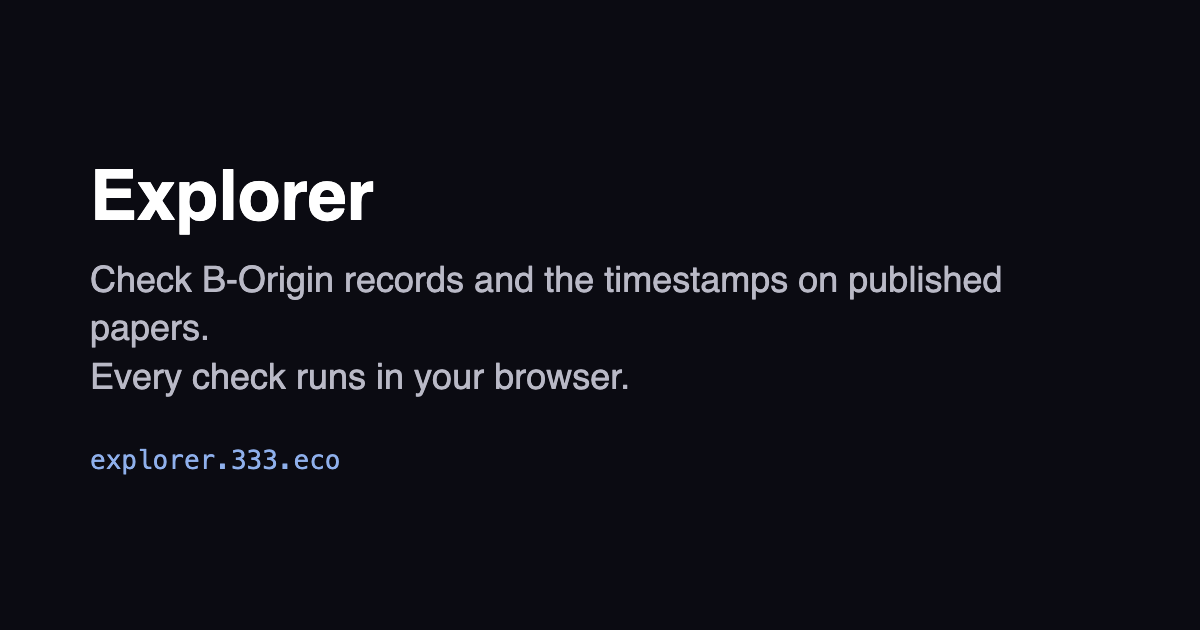
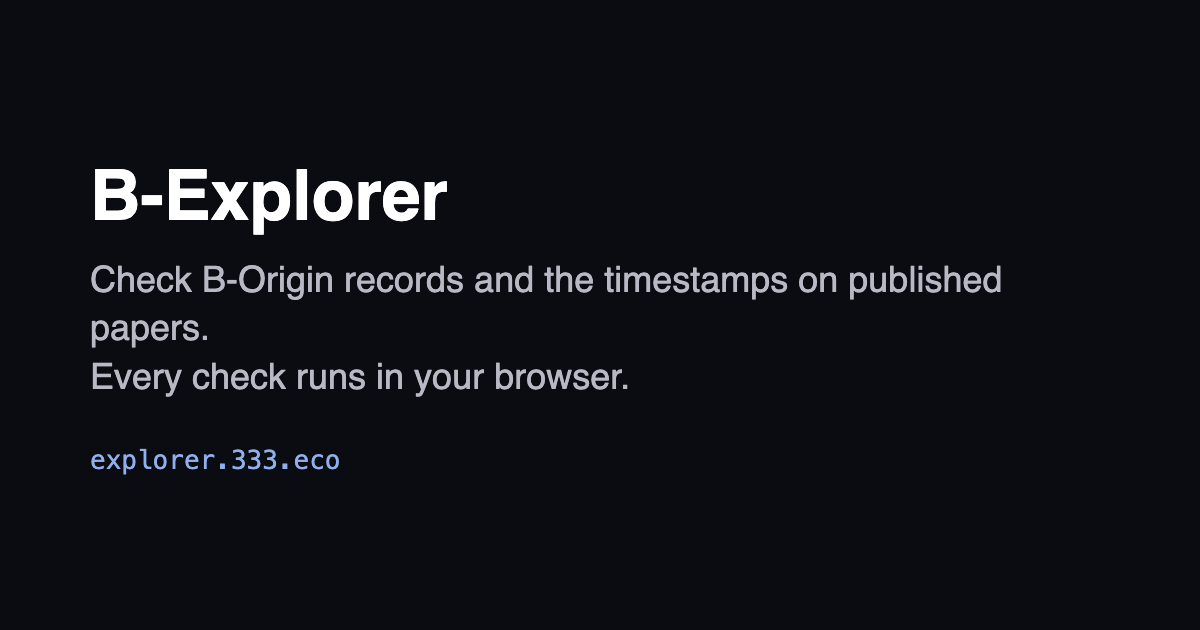
B-Explorer: names as ruled, each document its own card, the block prominent and linked, Read it fixed; Cloudflare Pages

Changed region(s): [[0.0925, 0.2714, 0.37, 0.3619]]

diff --git a/client/app.ts b/client/app.ts
@@ -42,6 +42,7 @@ const text = (b: Uint8Array) => new TextDecoder().decode(b);
 const head = (title: string, lede?: string) => h("div", {}, h("h1", {}, title), lede ? h("p", { class: "lede" }, lede) : null);
 const card = (...kids: Kid[]) => h("div", { class: "card" }, ...kids);
 const leg = (ok: boolean | null, title: string, ...body: Kid[]) => h("div", { class: "ex-leg" }, h("b", { class: ok === true ? "ex-ok" : ok === false ? "ex-bad" : "" }, title), h("p", {}, ...body));
+const blockLink = (height: number) => h("a", { class: "ex-block", href: `https://mempool.space/block/${height}`, rel: "noopener" }, say(`Block ${n(height)}`, `ប្លុក ${n(height)}`));
 const code = (s: string) => h("pre", { class: "code" }, h("code", {}, s));
 
 /* ─────────────── B-Origin records ─────────────── */
@@ -91,11 +92,11 @@ function results() {
     if (found === null) return searchNote ? h("p", { class: "fine", role: "status" }, searchNote) : null;
     const certain = [...found].sort((a, b) => (a.how === "similar" ? 1 : 0) - (b.how === "similar" ? 1 : 0) || (a.distance ?? 0) - (b.distance ?? 0));
     return card(h("h2", {}, found.length ? say(`${found.length} found`, `រកឃើញ ${found.length}`) : say("No record matches", "គ្មានកំណត់ត្រាត្រូវគ្នាទេ")),
-        ...certain.map((m) => link(`/origin/${m.index}`, h("span", { class: "ex-row" }, h("b", {}, `#${n(m.index)}`), h("span", {}, HOW[m.how]?.[isKm() ? 1 : 0] ?? m.how)))),
+        ...certain.map((m) => h("a", { class: "ex-row", href: `/origin/${m.index}` }, h("b", {}, `#${n(m.index)}`), h("span", {}, HOW[m.how]?.[isKm() ? 1 : 0] ?? m.how))),
         searchNote ? h("p", { class: "fine" }, searchNote) : null);
 }
 async function originPage() {
-    const title = head(say("B-Origin records", "កំណត់ត្រា B-Origin"), say("A public log of what people chose to sign. It only ever grows, and every entry below was checked in your browser just now.", "កំណត់ហេតុសាធារណៈនៃអ្វីដែលមនុស្សបានជ្រើសរើសចុះហត្ថលេខា។ វាគ្រាន់តែកើនឡើង ហើយកំណត់ត្រានីមួយៗខាងក្រោមត្រូវបានពិនិត្យក្នុងកម្មវិធីរុករករបស់អ្នកមុននេះបន្តិច។"));
+    const title = head(say("Records", "កំណត់ត្រា"), say("A public log of what people chose to sign. It only ever grows, and every entry below was checked in your browser just now.", "កំណត់ហេតុសាធារណៈនៃអ្វីដែលមនុស្សបានជ្រើសរើសចុះហត្ថលេខា។ វាគ្រាន់តែកើនឡើង ហើយកំណត់ត្រានីមួយៗខាងក្រោមត្រូវបានពិនិត្យក្នុងកម្មវិធីរុករករបស់អ្នកមុននេះបន្តិច។"));
     view.replaceChildren(title, card(h("p", { role: "status" }, say("Reading and checking the public log…", "កំពុងអាន និងពិនិត្យកំណត់ហេតុសាធារណៈ…"))));
     const l = await readLog();
     if (route().name !== "origin") return;
@@ -138,9 +139,10 @@ async function recordPage(index: number) {
             leg(true, say("The signature on this entry", "ហត្ថលេខាលើធាតុនេះ")), leg(true, say("It is in the log", "វានៅក្នុងកំណត់ហេតុ"), pack.inclusion.length ? say(`${count(pack.inclusion.length, "hash leads", "hashes lead")} from this entry to the log's signed root.`, `${n(pack.inclusion.length)} ហាសនាំពីធាតុនេះទៅឫសដែលបានចុះហត្ថលេខារបស់កំណត់ហេតុ។`) : say("It's the only entry so far, so it is the log's signed root.", "វាជាធាតុតែមួយគត់រហូតមកដល់ពេលនេះ ដូច្នេះវាជាឫសដែលបានចុះហត្ថលេខារបស់កំណត់ហេតុ។")),
             ...out.timestamped.map((t: { authority: string; noLaterThan: string }) => leg(true, say(`Timestamp: ${t.authority}`, `ត្រាពេលវេលា៖ ${t.authority}`), say(`No later than ${when(t.noLaterThan)}`, `មិនយឺតជាង ${when(t.noLaterThan)}`))),
             ...out.timestampFailures.map((t: { authority: string; why: string }) => leg(false, say(`Timestamp: ${t.authority}`, `ត្រាពេលវេលា៖ ${t.authority}`), t.why)),
-            ...out.bitcoin.map((b: { height: number; time: number }) => leg(true, "Bitcoin", say(`Block ${n(b.height)}`, `ប្លុក ${n(b.height)}`))),
-            ...(out.bitcoinUnchecked ?? []).map((height: number) => leg(null, "Bitcoin", say(`The proof names block ${n(height)}. This page doesn't fetch Bitcoin blocks, so the verifier below checks it.`, `ភស្តុតាងដាក់ឈ្មោះប្លុក ${n(height)}។ ទំព័រនេះមិនទាញយកប្លុក Bitcoin ទេ ដូច្នេះកម្មវិធីផ្ទៀងផ្ទាត់ខាងក្រោមពិនិត្យវា។`))),
-            (out.bitcoinPending?.length ?? 0) > 0 ? leg(null, "Bitcoin", say("Waiting for a block. This takes a few hours.", "កំពុងរង់ចាំប្លុក។ វាចំណាយពេលពីរបីម៉ោង។")) : null),
+            ...out.bitcoin.map((b: { height: number; time: number }) => leg(true, "Bitcoin", blockLink(b.height))),
+            ...(out.bitcoinUnchecked ?? []).map((height: number) => leg(null, "Bitcoin", blockLink(height), say("The proof names this block. This page doesn't fetch Bitcoin blocks, so the verifier below checks it.", "ភស្តុតាងដាក់ឈ្មោះប្លុកនេះ។ ទំព័រនេះមិនទាញយកប្លុក Bitcoin ទេ ដូច្នេះកម្មវិធីផ្ទៀងផ្ទាត់ខាងក្រោមពិនិត្យវា។"))),
+            (out.bitcoinPending?.length ?? 0) > 0 ? leg(null, "Bitcoin", say("Waiting for a block. This takes a few hours.", "កំពុងរង់ចាំប្លុក។ វាចំណាយពេលពីរបីម៉ោង។")) : null,
+            !pack.stamps?.ots ? leg(null, "Bitcoin", say("The log is stamped to Bitcoin once a day, and this record joins the next stamp. A few hours later that proof reaches a block.", "កំណត់ហេតុត្រូវបានបោះត្រាទៅ Bitcoin ម្តងក្នុងមួយថ្ងៃ ហើយកំណត់ត្រានេះចូលរួមក្នុងការបោះត្រាបន្ទាប់។ ពីរបីម៉ោងក្រោយមក ភស្តុតាងនោះទៅដល់ប្លុក។")) : null),
         card(h("h2", {}, say("What a record can't show", "អ្វីដែលកំណត់ត្រាមិនអាចបង្ហាញបាន")), h("p", {}, say("Who imagined the work. A record shows only who signed it, and when.", "អ្នកណាបានគិតស្នាដៃនេះ។ កំណត់ត្រាបង្ហាញតែអ្នកណាបានចុះហត្ថលេខា និងពេលណាប៉ុណ្ណោះ។"))),
         card(h("h2", {}, say("Check it yourself", "ពិនិត្យដោយខ្លួនឯង")), code(`npx @333eco/origin-verify record ${index}`), h("button", { type: "button", class: "btn ghost", onclick: download }, say("Download this record's proof", "ទាញយកភស្តុតាងកំណត់ត្រានេះ"))),
         link("/origin", say("All records", "កំណត់ត្រាទាំងអស់")));
@@ -168,9 +170,10 @@ async function corpusPage() {
     const box = h("div", {}), input = h("input", { type: "search", value: filter, "aria-label": say("Search by title", "ស្វែងរកតាមចំណងជើង"), placeholder: say("Search by title", "ស្វែងរកតាមចំណងជើង"), oninput: (e: Event) => { filter = (e.target as HTMLInputElement).value; shownDocs = PAGE; fill(); } });
     const fill = () => {
         const q = filter.trim().toLowerCase(), hits = q ? list.filter((d) => d.title.toLowerCase().includes(q) || d.slug.includes(q) || d.sha256.startsWith(q.replace(/\s/g, ""))) : list;
-        box.replaceChildren(h("p", { class: "fine" }, say(`${n(hits.length)} documents`, `${n(hits.length)} ឯកសារ`)), card(...hits.slice(0, shownDocs).map((d) => link(`/corpus/${d.slug}`, h("span", { class: "ex-row" }, h("b", {}, d.title), h("span", {}, `${genre(d.genre)} · ${date(d.date)} · `, h("span", { class: "ex-mono" }, short(d.sha256))),
-            h("span", { class: "ex-chips" }, d.opentimestamps ? h("span", { class: "pill on" }, "Bitcoin") : null, d.doi ? h("span", { class: "pill on" }, "DOI") : null))))),
-            hits.length > shownDocs ? h("button", { type: "button", class: "btn ghost ex-more", onclick: () => { shownDocs += PAGE; fill(); } }, say("Show more", "បង្ហាញបន្ថែម")) : null);
+        box.replaceChildren(...([h("p", { class: "fine ex-count" }, say(hits.length === 1 ? "1 document" : `${n(hits.length)} documents`, `${n(hits.length)} ឯកសារ`)),
+            ...hits.slice(0, shownDocs).map((d) => h("a", { class: "card ex-doc", href: `/corpus/${d.slug}` }, h("b", {}, d.title), h("span", {}, `${genre(d.genre)} · ${date(d.date)} · `, h("span", { class: "ex-mono" }, short(d.sha256))),
+                h("span", { class: "ex-chips" }, d.opentimestamps ? h("span", { class: "pill on" }, "Bitcoin") : null, d.doi ? h("span", { class: "pill on" }, "DOI") : null))),
+            hits.length > shownDocs ? h("button", { type: "button", class: "btn ghost ex-more", onclick: () => { shownDocs += PAGE; fill(); } }, say("Show more", "បង្ហាញបន្ថែម")) : null].filter(Boolean) as Node[]));
     };
     fill();
     view.replaceChildren(title, h("form", { class: "ex-search", role: "search", onsubmit: (e: Event) => e.preventDefault() }, input), box);
@@ -197,7 +200,7 @@ async function liveLegs(d: Doc, into: HTMLElement) {
                 const seen = await checkOts(new Uint8Array(await r.arrayBuffer()), digest);
                 if (!seen.ok) return put("btc", leg(null, "Bitcoin", say("The repository's proof is for a newer version of the text than this index.", "ភស្តុតាងរបស់ឃ្លាំងគឺសម្រាប់កំណែថ្មីជាងនៃអត្ថបទជាងសន្ទស្សន៍នេះ។"), " ", link(proofUrl, say("The proof", "ភស្តុតាង"))));
                 const heights: number[] = seen.bitcoin.map((a: { height: number }) => a.height);
-                put("btc", heights.length ? leg(null, "Bitcoin", say(`The proof commits to this text and names block ${n(Math.min(...heights))}. This page doesn't fetch Bitcoin blocks, so confirm the block with the OpenTimestamps tool: `, `ភស្តុតាងបញ្ជាក់អត្ថបទនេះ ហើយដាក់ឈ្មោះប្លុក ${n(Math.min(...heights))}។ ទំព័រនេះមិនទាញយកប្លុក Bitcoin ទេ ដូច្នេះសូមបញ្ជាក់ប្លុកដោយឧបករណ៍ OpenTimestamps៖ `), link(proofUrl, say("the proof", "ភស្តុតាង")))
+                put("btc", heights.length ? leg(null, "Bitcoin", blockLink(Math.min(...heights)), say("The proof commits to this text and names this block. This page doesn't fetch Bitcoin blocks, so confirm it with the OpenTimestamps tool: ", "ភស្តុតាងបញ្ជាក់អត្ថបទនេះ ហើយដាក់ឈ្មោះប្លុកនេះ។ ទំព័រនេះមិនទាញយកប្លុក Bitcoin ទេ ដូច្នេះសូមបញ្ជាក់វាដោយឧបករណ៍ OpenTimestamps៖ "), link(proofUrl, say("the proof", "ភស្តុតាង")))
                     : leg(null, "Bitcoin", say("Waiting for a block. This takes a few hours. ", "កំពុងរង់ចាំប្លុក។ វាចំណាយពេលពីរបីម៉ោង។ "), link(proofUrl, say("The proof", "ភស្តុតាង"))));
             } catch { put("btc", leg(null, "Bitcoin", say("The proof can't be read right now, so this wasn't checked.", "មិនអាចអានភស្តុតាងបានឥឡូវនេះទេ ដូច្នេះនេះមិនត្រូវបានពិនិត្យទេ។"))); }
         })(),
@@ -233,7 +236,7 @@ async function docPage(slug: string) {
         d.doi ? leg(null, "Zenodo", link(`https://doi.org/${d.doi}`, d.doi), " · ", d.archive_matches_today ? say("The corpus index says the archived copy matches this text. Compare it yourself at the link.", "សន្ទស្សន៍ឯកសារនិយាយថាច្បាប់ចម្លងដែលបានរក្សាទុកត្រូវនឹងអត្ថបទនេះ។ សូមប្រៀបធៀបដោយខ្លួនឯងតាមតំណ។") : say("The archived copy is an earlier version.", "ច្បាប់ចម្លងដែលបានរក្សាទុកគឺជាកំណែមុន។")) : null,
         leg(null, say("Corpus index", "សន្ទស្សន៍ឯកសារ"), say("corpus.333.eco serves this fingerprint.", "corpus.333.eco ផ្តល់ស្នាមម្រាមដៃនេះ។")), h("p", { class: "fine ex-gap" }, say("A tick means it was checked on this page just now. No tick means it's stated, with where to check it.", "សញ្ញាធីកមានន័យថាបានពិនិត្យនៅលើទំព័រនេះមុននេះបន្តិច។ គ្មានសញ្ញាធីកមានន័យថាវាត្រូវបាននិយាយ ជាមួយកន្លែងដែលត្រូវពិនិត្យ។")));
     view.replaceChildren(head(d.title, `${genre(d.genre)} · ${date(d.date)} · ${d.licence}`),
-        card(h("dl", { class: "ex-kv" }, h("dt", {}, say("Fingerprint (SHA-256)", "ស្នាមម្រាមដៃ (SHA-256)")), h("dd", { class: "ex-mono" }, full(d.sha256)), h("dt", {}, say("Source", "ប្រភព")), h("dd", {}, d.source_url ? link(d.source_url, d.path) : d.path)), d.read_at ? h("p", { class: "ex-gap" }, link(`https://${d.read_at}`, say("Read it", "អានវា"))) : null),
+        card(h("dl", { class: "ex-kv" }, h("dt", {}, say("Fingerprint (SHA-256)", "ស្នាមម្រាមដៃ (SHA-256)")), h("dd", { class: "ex-mono" }, full(d.sha256)), h("dt", {}, say("Source", "ប្រភព")), h("dd", {}, d.source_url ? link(d.source_url, d.path) : d.path)), d.read_at ? h("p", { class: "ex-gap" }, link(/^https?:\/\//.test(d.read_at) ? d.read_at : `https://${d.read_at}`, say("Read it", "អានវា"))) : null),
         legs, card(h("p", {}, say("A timestamp proves when this text existed. It never proves that the text is true.", "ត្រាពេលវេលាបង្ហាញថាអត្ថបទនេះមាននៅពេលណា។ វាមិនដែលបង្ហាញថាអត្ថបទនេះពិតទេ។"))), link("/corpus", say("All documents", "ឯកសារទាំងអស់")));
     await liveLegs(d, legs);
 }
@@ -249,7 +252,7 @@ function route(): { name: "origin" } | { name: "record"; index: number } | { nam
 function paint() {
     const r = route(), area = r.name === "corpus" || r.name === "doc" ? "corpus" : "origin";
     document.querySelectorAll<HTMLElement>("[data-nav]").forEach((a) => { if (a.dataset.nav === area) a.setAttribute("aria-current", "page"); else a.removeAttribute("aria-current"); });
-    document.title = `${r.name === "record" ? say(`Record #${r.index}`, `កំណត់ត្រា #${r.index}`) : area === "corpus" ? say("Corpus", "សារពើភ័ណ្ឌឯកសារ") : say("B-Origin records", "កំណត់ត្រា B-Origin")} · Explorer`;
+    document.title = `${r.name === "record" ? say(`Record #${r.index}`, `កំណត់ត្រា #${r.index}`) : area === "corpus" ? say("Corpus", "សារពើភ័ណ្ឌឯកសារ") : say("Records", "កំណត់ត្រា")} · B-Explorer`;
     const run = r.name === "record" ? recordPage(r.index) : r.name === "doc" ? docPage(r.slug) : r.name === "corpus" ? corpusPage() : originPage();
     run.catch((e) => view.replaceChildren(card(leg(false, say("That didn't work", "វាមិនដំណើរការទេ"), String(e.message ?? e)))));
 }

diff --git a/client/index.html b/client/index.html
@@ -1,10 +1,10 @@
 <!doctype html><html lang="en"><head><meta charset="utf-8">
-<meta name="viewport" content="width=device-width,initial-scale=1"><meta name="color-scheme" content="light dark"><title>Explorer · 333.eco</title>
+<meta name="viewport" content="width=device-width,initial-scale=1"><meta name="color-scheme" content="light dark"><title>B-Explorer · 333.eco</title>
 <meta name="description" content="Check B-Origin records and the timestamps on published papers. Every check runs in your browser.">
-<meta property="og:title" content="Explorer · 333.eco"><meta property="og:description" content="Check B-Origin records and the timestamps on published papers. Every check runs in your browser."><meta property="og:type" content="website"><meta property="og:url" content="https://explorer.333.eco/origin"><meta property="og:image" content="https://explorer.333.eco/og.png"><meta property="og:image:width" content="1200"><meta property="og:image:height" content="630"><meta name="twitter:card" content="summary_large_image"><meta name="twitter:image" content="https://explorer.333.eco/og.png">
+<meta property="og:title" content="B-Explorer · 333.eco"><meta property="og:description" content="Check B-Origin records and the timestamps on published papers. Every check runs in your browser."><meta property="og:type" content="website"><meta property="og:url" content="https://explorer.333.eco/origin"><meta property="og:image" content="https://explorer.333.eco/og.png"><meta property="og:image:width" content="1200"><meta property="og:image:height" content="630"><meta name="twitter:card" content="summary_large_image"><meta name="twitter:image" content="https://explorer.333.eco/og.png">
 <link rel="stylesheet" href="/hb.css"><link rel="stylesheet" href="/origin.css"><link rel="stylesheet" href="/explorer.css"><link rel="icon" href="/favicon.svg" type="image/svg+xml"><link rel="apple-touch-icon" href="/apple-touch-icon.png"><link rel="manifest" href="/site.webmanifest"><script src="/theme.js"></script><script src="/lang.js"></script><script src="/analytics.js" defer></script></head>
-<body><div class="app lp"><header class="has-name"><a href="/origin" class="wordmark-link"><span class="wordmark">Heart<svg class="beating" viewBox="0 0 24 24" aria-hidden="true"><path fill="currentColor" d="M3.9743 20.0257L3.8824 18.0670C3.5430 11.1232 3.3167 6.5411 5.9896 3.8683C8.1675 1.6904 11.5899 1.6904 13.7678 3.8683C14.9981 5.0986 15.6062 6.8523 15.4719 8.5281C17.1477 8.3938 18.9014 9.0019 20.1317 10.2322C22.3096 12.4101 22.3096 15.8325 20.1317 18.0104C17.4589 20.6833 12.8768 20.4570 5.9260 20.1247L3.9743 20.0257Z"/></svg>ank<sup>®</sup></span></a><a href="/origin" class="app-name"><span class="l-en">Explorer</span><span class="l-km" lang="km">កម្មវិធីរុករក</span></a><span class="head-end"><button type="button" id="share" class="btn ghost small ex-share" aria-label="Share"><span class="l-en">Share</span><span class="l-km" lang="km">ចែករំលែក</span></button><span class="seg" role="group" aria-label="Language"><button type="button" data-lang="en">EN</button><button type="button" data-lang="km" lang="km">ខ្មែរ</button></span></span></header>
-<nav class="nav" aria-label="Pages"><a href="/origin" data-nav="origin"><span class="l-en">B-Origin records</span><span class="l-km" lang="km">កំណត់ត្រា B-Origin</span></a><a href="/corpus" data-nav="corpus"><span class="l-en">Corpus</span><span class="l-km" lang="km">សារពើភ័ណ្ឌឯកសារ</span></a></nav>
+<body><div class="app lp"><header class="has-name"><a href="/origin" class="wordmark-link"><span class="wordmark">Heart<svg class="beating" viewBox="0 0 24 24" aria-hidden="true"><path fill="currentColor" d="M3.9743 20.0257L3.8824 18.0670C3.5430 11.1232 3.3167 6.5411 5.9896 3.8683C8.1675 1.6904 11.5899 1.6904 13.7678 3.8683C14.9981 5.0986 15.6062 6.8523 15.4719 8.5281C17.1477 8.3938 18.9014 9.0019 20.1317 10.2322C22.3096 12.4101 22.3096 15.8325 20.1317 18.0104C17.4589 20.6833 12.8768 20.4570 5.9260 20.1247L3.9743 20.0257Z"/></svg>ank<sup>®</sup></span></a><a href="/origin" class="app-name">B-Explorer</a><span class="head-end"><button type="button" id="share" class="btn ghost small ex-share" aria-label="Share"><span class="l-en">Share</span><span class="l-km" lang="km">ចែករំលែក</span></button><span class="seg" role="group" aria-label="Language"><button type="button" data-lang="en">EN</button><button type="button" data-lang="km" lang="km">ខ្មែរ</button></span></span></header>
+<nav class="nav" aria-label="Pages"><a href="/origin" data-nav="origin">B-Origin<span class="sm">℠</span></a><a href="/corpus" data-nav="corpus"><span class="l-en">Corpus</span><span class="l-km" lang="km">សារពើភ័ណ្ឌឯកសារ</span></a></nav>
 <main id="view" aria-live="polite"></main>
 <footer><p><span class="l-en">explorer.333.eco · read-only · every check runs in your browser · visits are counted without cookies</span><span class="l-km" lang="km">explorer.333.eco · អានតែប៉ុណ្ណោះ · ការពិនិត្យទាំងអស់ដំណើរការក្នុងកម្មវិធីរុករករបស់អ្នក · ការចូលមើលត្រូវបានរាប់ដោយគ្មានខូគី</span></p><div class="foot-row"><p class="l-en">Founded by <a href="https://thonly.org/" rel="noopener">Thon Ly</a> · <a href="https://missaquarius.org/" rel="noopener">Miss Aquarius</a><span class="sm">℠</span> is the CEO</p><p class="l-km" lang="km">ស្ថាបនិកគឺ <a href="https://thonly.org/" rel="noopener">Thon Ly</a> · <a href="https://missaquarius.org/" rel="noopener">Miss Aquarius</a><span class="sm">℠</span> ជាប្រធានប្រតិបត្តិ</p><span class="seg" role="group" aria-label="Color theme" data-theme-ui hidden><button type="button" data-theme-choice="auto"><span class="l-en">Auto</span><span class="l-km" lang="km">ស្វ័យប្រវត្តិ</span></button><button type="button" data-theme-choice="light"><span class="l-en">Light</span><span class="l-km" lang="km">ភ្លឺ</span></button><button type="button" data-theme-choice="dark"><span class="l-en">Dark</span><span class="l-km" lang="km">ងងឹត</span></button></span></div></footer></div>
 <script src="/app.js"></script></body></html>

diff --git a/public/explorer.css b/public/explorer.css
@@ -1,6 +1,6 @@
 .ex-search{display:flex;gap:8px;align-items:stretch;margin:14px 0 6px}.ex-search input{flex:1;min-width:0;font:inherit;padding:10px 12px;border-radius:12px;border:1px solid var(--line-strong);background:var(--bg);color:var(--ink)}
 .ex-search .btn{width:auto;margin:0;padding-inline:16px}
-.ex-file{display:inline-block;font-size:14px;color:var(--accent);cursor:pointer;text-decoration:underline}.ex-file input{position:absolute;width:1px;height:1px;opacity:0}
+.ex-file{display:inline-block;margin:2px 0 16px;font-size:14px;color:var(--accent);cursor:pointer;text-decoration:underline}.ex-file input{position:absolute;width:1px;height:1px;opacity:0}
 .ex-table{width:100%;border-collapse:collapse;font-size:14px}.ex-table th{text-align:left;font-weight:600;color:var(--ink-dim);padding:6px 8px 6px 0;border-bottom:1px solid var(--line-strong)}.ex-table td{padding:9px 8px 9px 0;border-bottom:1px solid var(--line);vertical-align:top}
 .ex-scroll{overflow-x:auto}.ex-mono{font-family:var(--font-mono);font-size:13px;overflow-wrap:anywhere}
 .ex-kv{display:grid;grid-template-columns:minmax(110px,auto) 1fr;gap:6px 14px;margin:0}.ex-kv dt{color:var(--ink-dim)}.ex-kv dd{margin:0;overflow-wrap:anywhere}
@@ -9,3 +9,7 @@
 .ex-row{display:block;text-decoration:none;color:inherit;padding:12px 0;border-top:1px solid var(--line)}.ex-row:first-child{border-top:0}.ex-row b{display:block;font-weight:650;color:var(--ink)}.ex-row span{font-size:13.5px;color:var(--ink-dim)}.ex-row:hover b{color:var(--accent)}
 .ex-chips{display:flex;flex-wrap:wrap;gap:6px;margin-top:6px}
 .ex-more{width:100%}.ex-gap{margin-top:14px}
+.ex-count{margin:4px 0 12px}
+a.ex-doc{display:block;text-decoration:none;color:inherit;margin-bottom:10px}a.ex-doc b{display:block;font-weight:650;color:var(--ink);margin-bottom:4px}a.ex-doc>span{font-size:13.5px;color:var(--ink-dim)}a.ex-doc:hover{border-color:var(--accent)}a.ex-doc:hover b{color:var(--accent)}
+.ex-row{display:block}a.ex-row{text-decoration:none}
+.ex-block{display:block;font-size:clamp(22px,6vw,28px);font-weight:700;letter-spacing:-.01em;margin:4px 0 6px;color:var(--accent);text-decoration:none}.ex-block:hover{text-decoration:underline}

diff --git a/scripts/og.html b/scripts/og.html
@@ -1,1 +1,1 @@
-<!doctype html><meta charset=utf-8><body style="margin:0;width:1200px;height:630px;display:grid;align-content:center;padding:0 90px;box-sizing:border-box;background:#0b0b12;color:#fff;font:600 70px -apple-system,Helvetica,sans-serif"><div>Explorer</div><div style="font:400 36px -apple-system,Helvetica,sans-serif;color:#b9b9c6;margin-top:20px;line-height:1.35">Check B-Origin records and the timestamps on published papers.<br>Every check runs in your browser.</div><div style="font:400 26px ui-monospace,Menlo,monospace;color:#8fb0ec;margin-top:44px">explorer.333.eco</div></body>
+<!doctype html><meta charset=utf-8><body style="margin:0;width:1200px;height:630px;display:grid;align-content:center;padding:0 90px;box-sizing:border-box;background:#0b0b12;color:#fff;font:600 70px -apple-system,Helvetica,sans-serif"><div>B-Explorer</div><div style="font:400 36px -apple-system,Helvetica,sans-serif;color:#b9b9c6;margin-top:20px;line-height:1.35">Check B-Origin records and the timestamps on published papers.<br>Every check runs in your browser.</div><div style="font:400 26px ui-monospace,Menlo,monospace;color:#8fb0ec;margin-top:44px">explorer.333.eco</div></body>

diff --git a/README.md b/README.md
@@ -3,6 +3,6 @@
 Read-only pages over public data: B-Origin's log (log.333.eco) and the corpus (corpus.333.eco, and each paper's public repository). Every check runs in the reader's browser, using the published `@333eco/origin-verify`, so this host holds nothing and isn't trusted.
 
 - `npm run build` writes `dist/`. `npm run drive` runs it in real Chrome against the real log, with a tampered-log control.
-- Deploy: `npx wrangler deploy` (static assets, no Worker code).
+- Deploy: `npm run build && npx wrangler pages deploy` (Cloudflare Pages, direct upload; no build there, no Functions).
 - ⛔ A tick means it was checked on the page just now. Anything else is stated, with where to check it.
 - ⛔ No rates, rankings or counters. The gratitude ledger's page waits for the ledger; outside witnesses are named once they exist.
